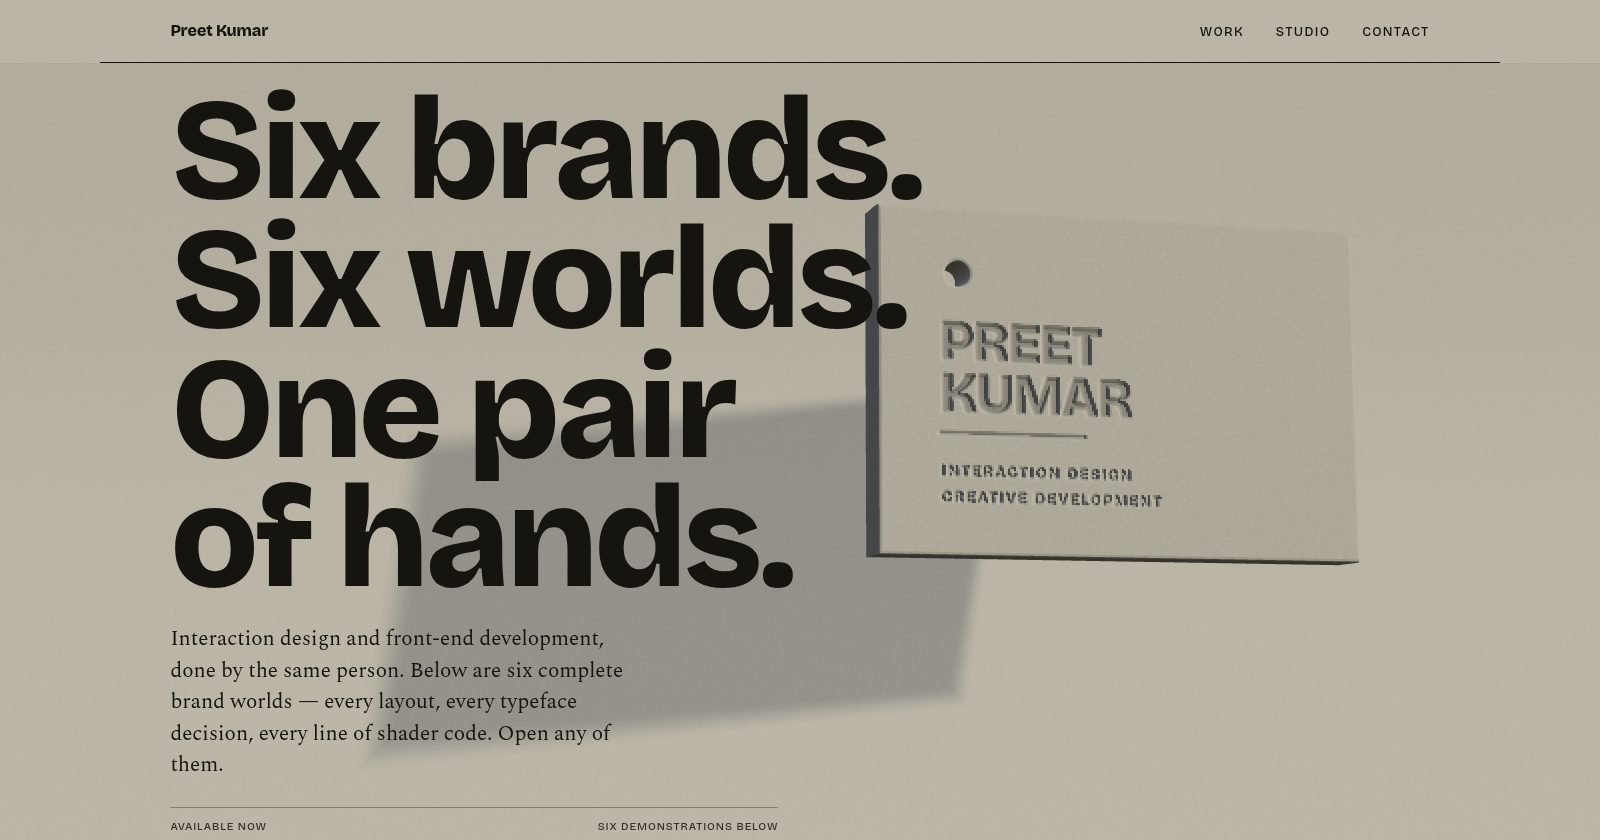
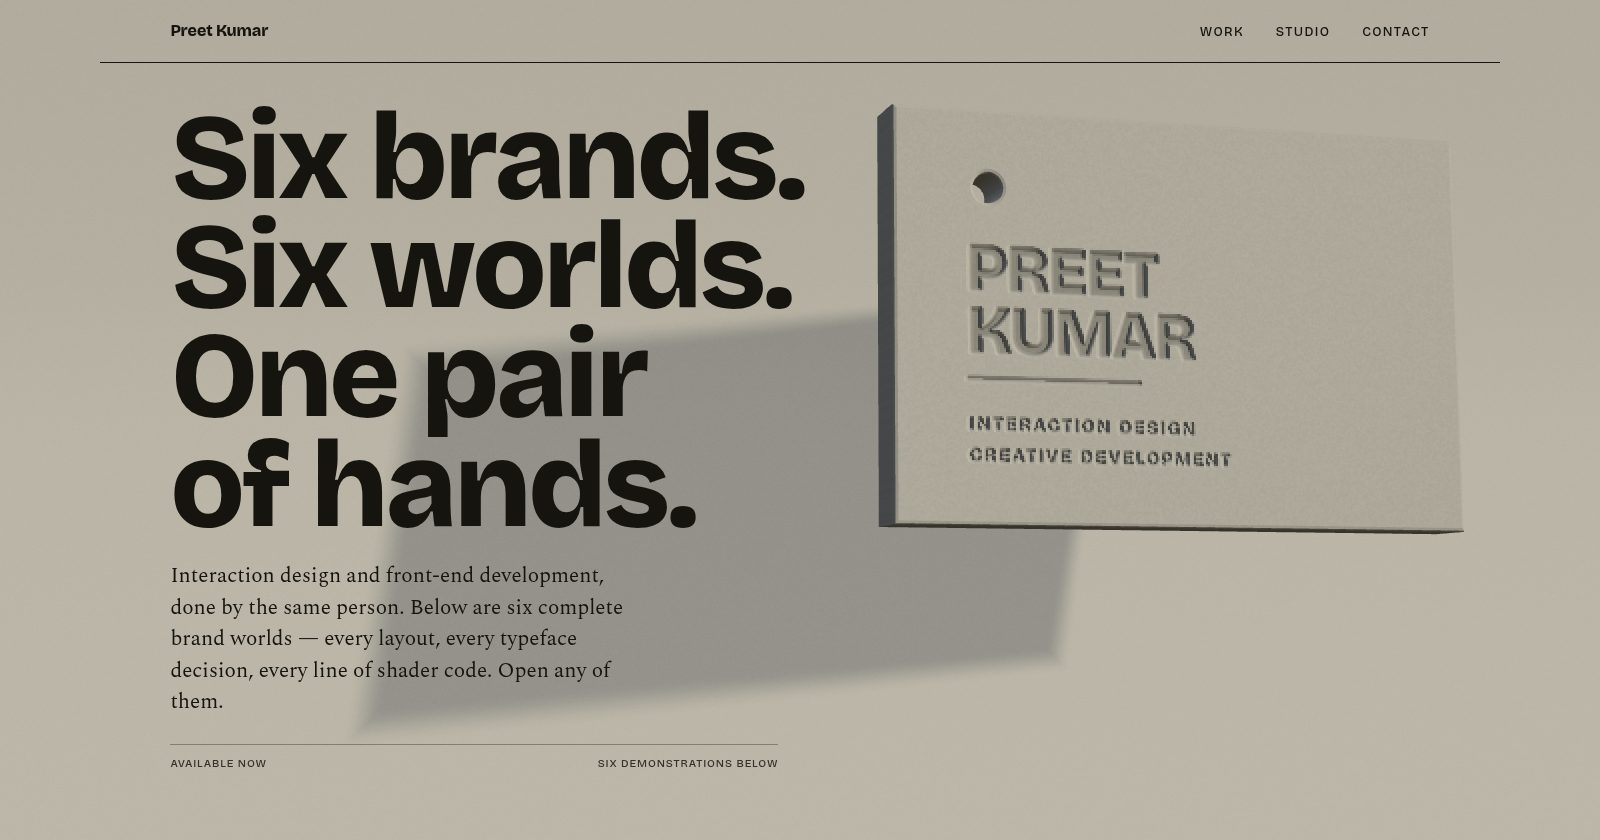
Portfolio: the headline is sized by what is left of the frame
Taking the masthead out of flow fixed the hero on short screens and
introduced a subtler problem on ordinary ones. With nothing above it in
the layout, nothing stopped a headline sized purely off `vw` from rising
up behind the bar as the frame got shorter — and it did, at 1600x840 and
at every common laptop height below: 1440x800, 1440x700, 1366x768 and
1280x720 all had "Six brands." running under "Preet Kumar".

A plain svh cap does not fix it, because the lede and the baseline strip
underneath the headline are a fixed cost the cap cannot see. The size is
now `min(clamp(3.25rem, 9.8vw, 9rem), calc((100svh - 25rem) / 3.62))` —
25rem is that fixed cost, masthead and lede and strip and the insets
around them, and 3.62 is what four lines of this face measure per unit of
font size. Above about 880 pixels of height the width term still wins and
nothing changes; below it the headline gives way rather than the layout.

Measured across twelve frame shapes from 390x844 to 2560x1400: every one
clears the masthead by at least 31 pixels and ends its baseline strip
above the fold. At 1440x900 the headline moved by two pixels.

Social cards regenerated — the portfolio's is a better picture than any
version before it, because the composition it is a photograph of now fits
the frame it is photographed in.

Claude-Session: https://claude.ai/code/session_01J6SWTAXrNpAHhHG6XYkMrD

Changed region(s): [[0.0938, 0.0929, 0.9062, 0.9286], [0.375, 0.9595, 0.4688, 0.9905], [0.125, 0.9595, 0.1562, 0.9905]]

diff --git a/src/portfolio/portfolio.css b/src/portfolio/portfolio.css
@@ -48,7 +48,22 @@
   --rail: clamp(0px, 8vw, 132px);
   --rake: 4.19vw;              /* holds −2.4° at every width */
 
-  --t-h1:      clamp(3.25rem, 9.8vw, 9rem);
+  /* Sized off the width, but never taller than what is left of the frame.
+
+     Four lines of a headline sized purely off `vw` is a fixed block in a
+     frame whose height varies independently of it, and with the masthead out
+     of flow nothing stops the first line rising up behind it — which is what
+     happened at 1600x840, and worse at every common laptop height below that:
+     1440x800, 1440x700 and 1280x720 all had the headline running under the
+     bar.
+
+     A plain `svh` cap does not fix it, because the lede and the baseline
+     strip beneath the headline are a fixed cost the cap cannot see. 25rem is
+     that cost — masthead, lede, strip and the insets around them — and 3.62
+     is what four lines of this face measure per unit of font size. Above
+     about 880 pixels of height the width term still wins and nothing changes;
+     below it the headline gives way rather than the layout. */
+  --t-h1:      min(clamp(3.25rem, 9.8vw, 9rem), calc((100svh - 25rem) / 3.62));
   --t-h2:      clamp(2rem, 4.6vw, 3.5rem);
   --t-quiet:   clamp(2.5rem, 5.4vw, 4rem);
   --t-h3:      clamp(1.375rem, 2.2vw, 1.75rem);
